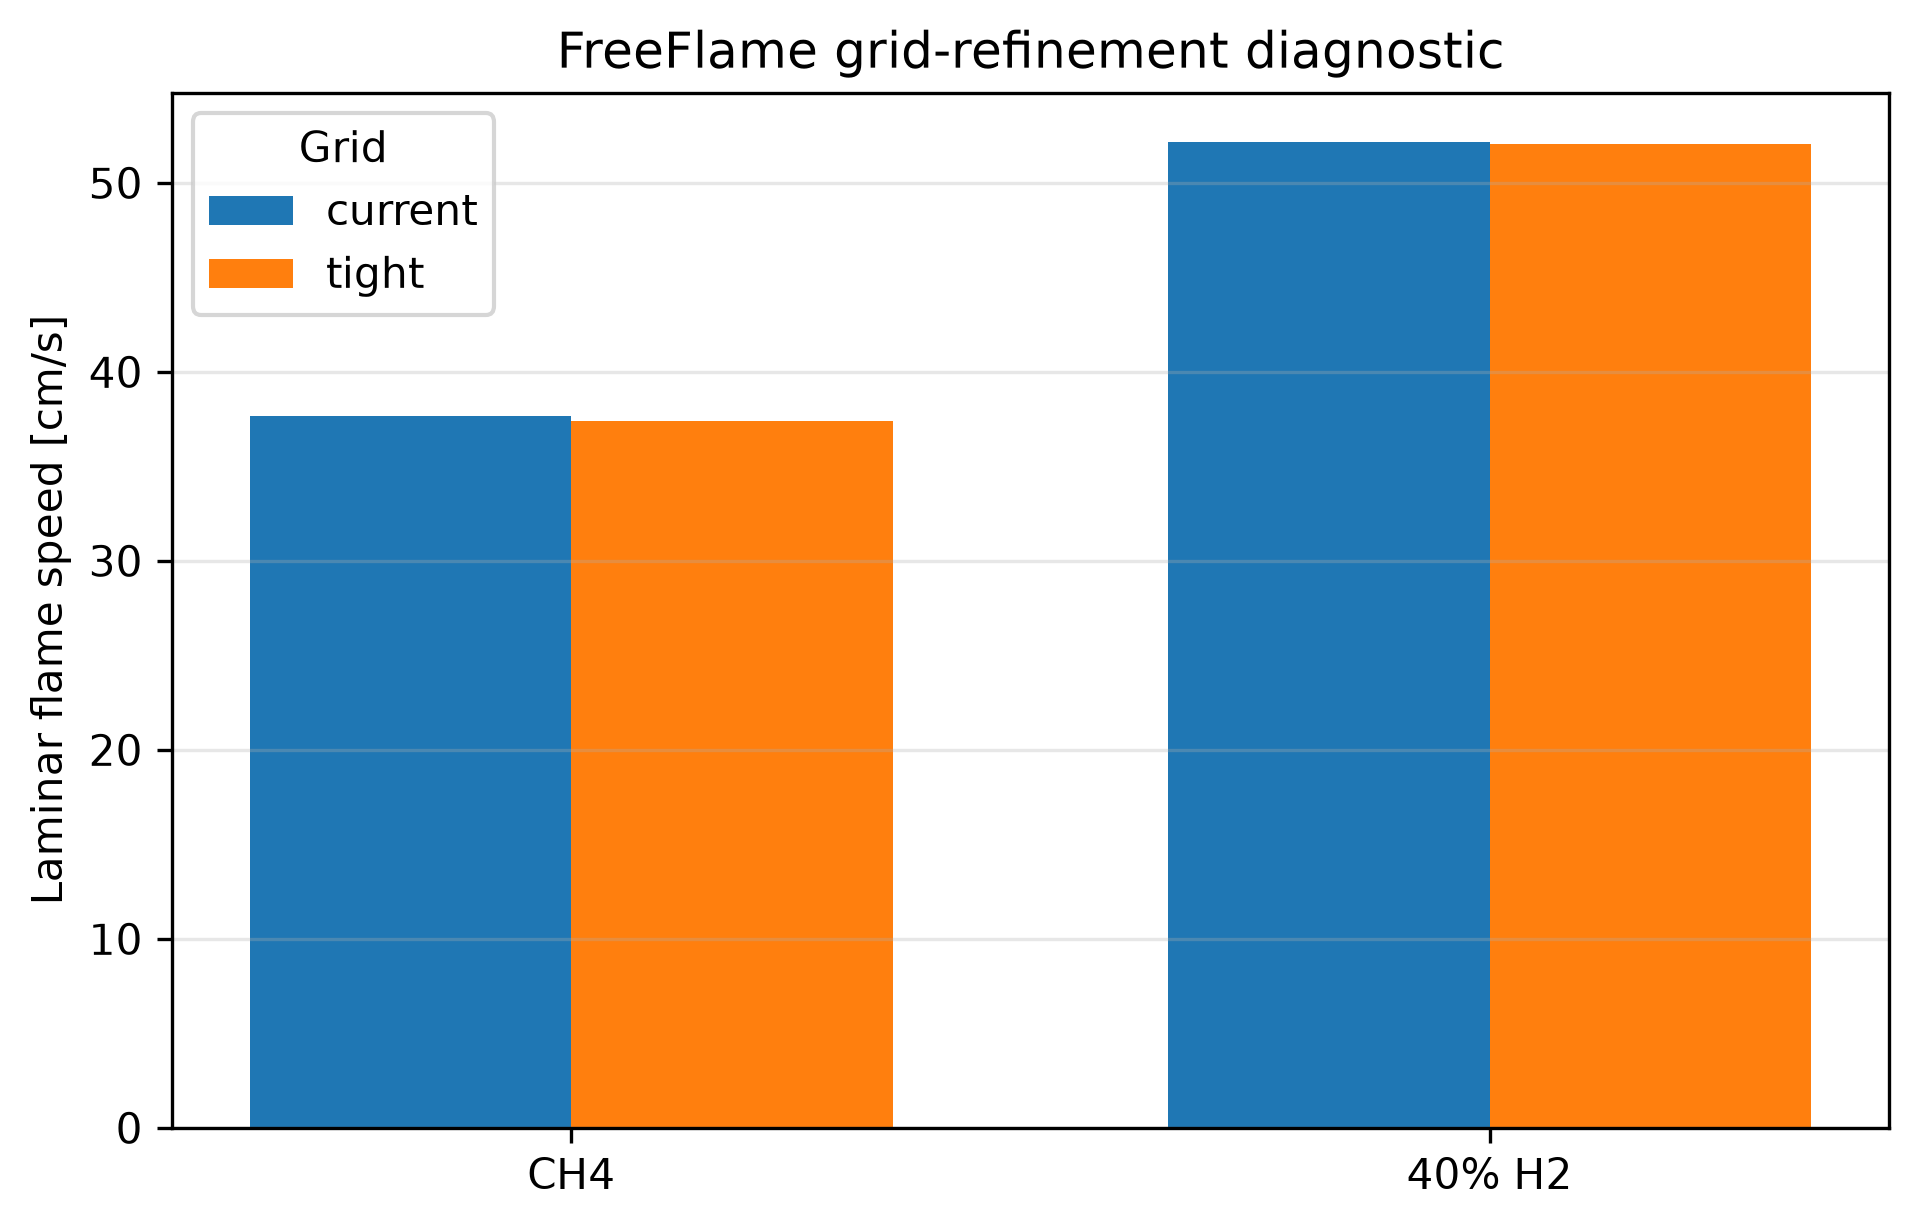
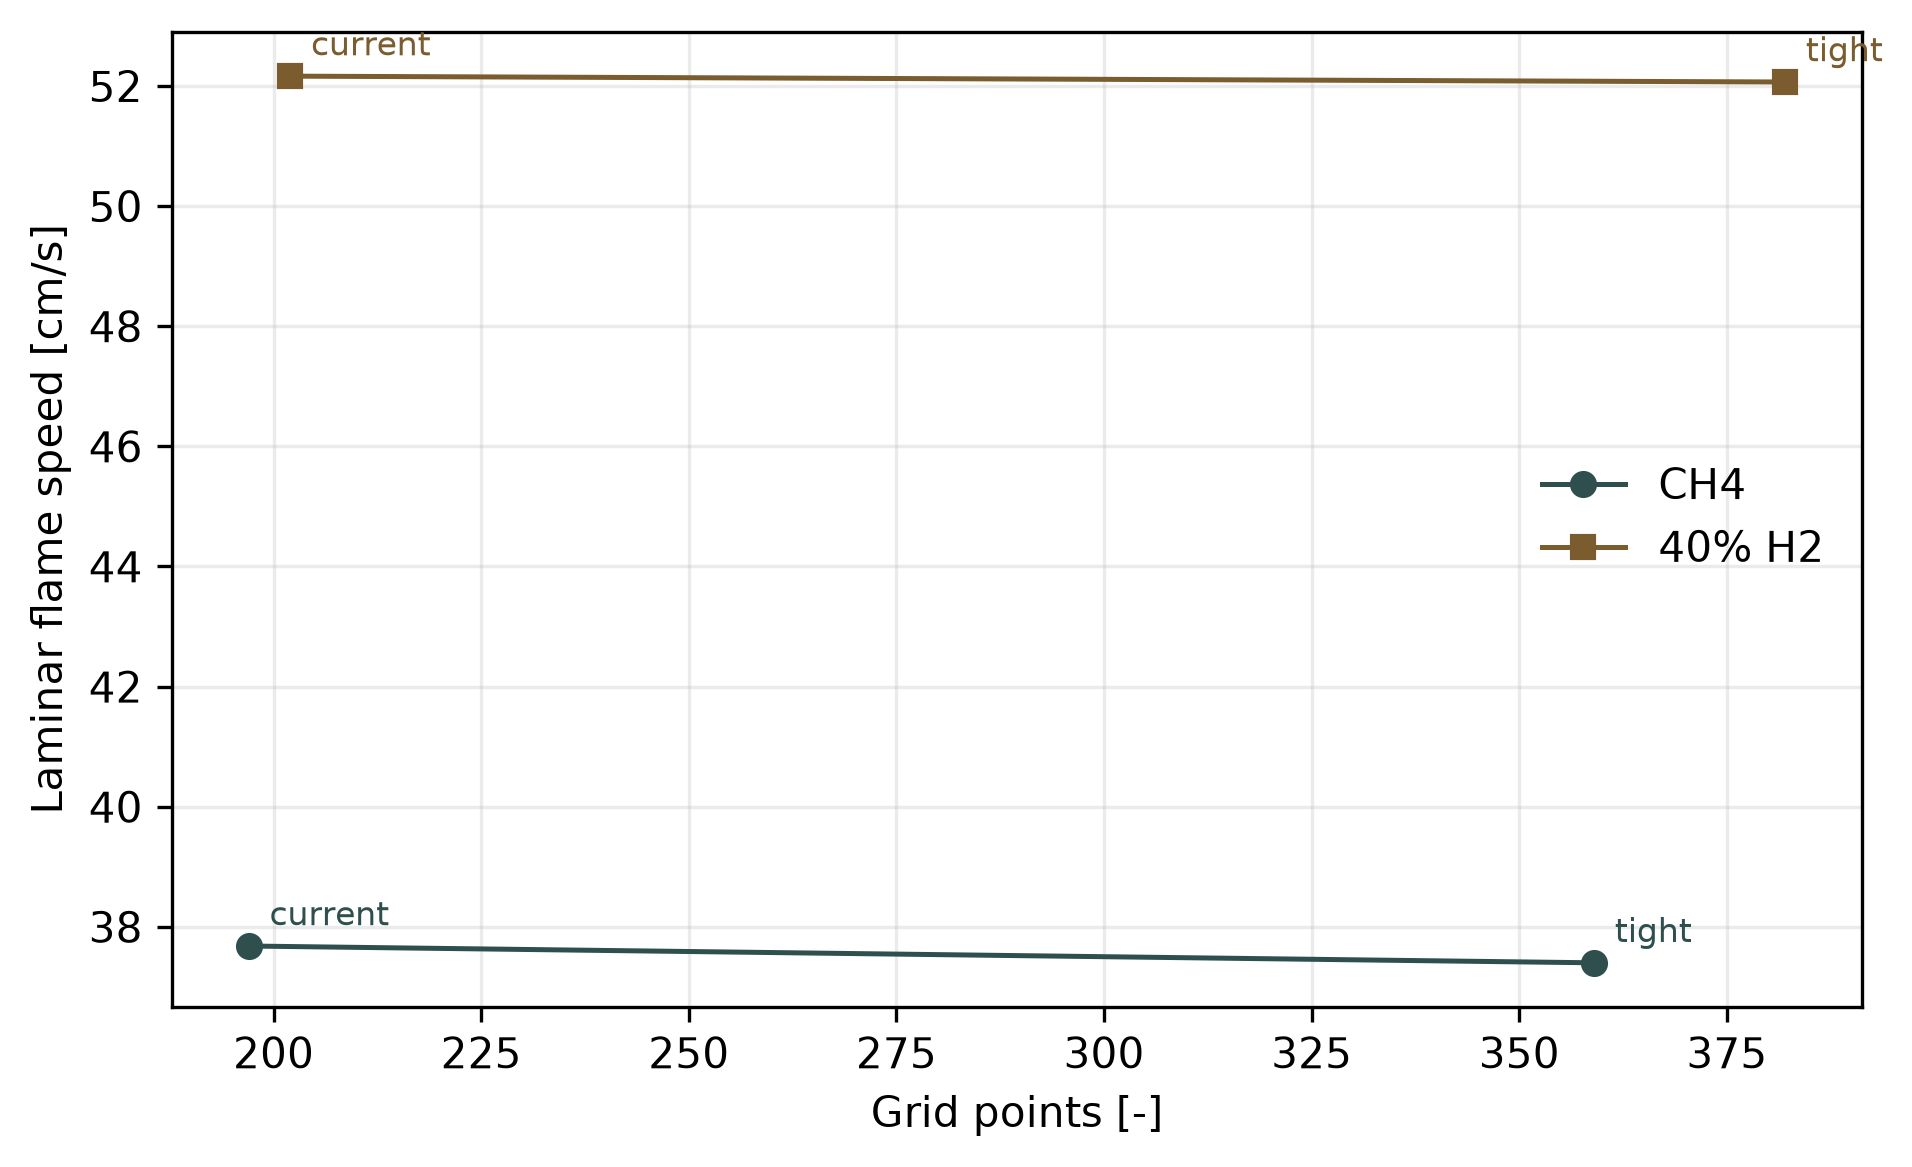
Improve report structure and convergence visualization

diff --git a/report/report.tex b/report/report.tex
@@ -18,11 +18,13 @@
 \usepackage{graphicx}
 \usepackage{subcaption}
 \usepackage{booktabs}
+\usepackage{placeins}
 \graphicspath{{assets/}{../results/figures/}{../results/diagnostics/}}
 
 % --- References ------------------------------------------------------------
 \usepackage[numbers,sort&compress]{natbib}
 \usepackage{hyperref}
+\renewcommand{\refname}{Bibliography}
 
 \sisetup{detect-all}
 \DeclareSIUnit{\atmosphere}{atm}
@@ -79,6 +81,33 @@ extinguished and hot stable steady-state solutions on the tested
 residence-time grid.
 \end{abstract}
 
+\clearpage
+\tableofcontents
+\clearpage
+
+\section*{Nomenclature}
+\addcontentsline{toc}{section}{Nomenclature}
+\begin{center}
+  \begin{tabular}{ll}
+    \toprule
+    Symbol & Meaning \\
+    \midrule
+    $\phi$ & equivalence ratio \\
+    $\tau_\mathrm{ign}$ & ignition delay \\
+    $\tau_\mathrm{res}$ & residence time \\
+    $S_L$ & laminar flame speed \\
+    $T_\mathrm{ad}$ & adiabatic flame temperature \\
+    $X_i$ & mole fraction of species $i$ \\
+    $Y_i$ & mass fraction of species $i$ \\
+    $p$ & pressure \\
+    $T_0$ & initial temperature \\
+    $\dot{m}$ & mass-flow rate \\
+    \bottomrule
+  \end{tabular}
+\end{center}
+
+\clearpage
+
 % ===========================================================================
 \section{Introduction}
 Hydrogen is widely studied as a clean fuel for gas-fired combustors and
@@ -104,8 +133,39 @@ model, how the molar hydrogen fraction in a \ce{CH4}/\ce{H2} fuel blend affects:
 and equivalence ratio; (iii) the laminar flame speed; and (iv) the behaviour
 of an ideal perfectly stirred combustor on a prescribed residence-time grid.
 
+\clearpage
+
 % ===========================================================================
 \section{Methodology}
+
+\subsection{Project workflow}
+The calculations are organised around a common definition of fuel composition,
+oxidizer composition and operating-condition grids. Table~\ref{tab:workflow} summarises the computational workflow; it is a
+project organisation diagram rather than a statement that all models are
+physically coupled in sequence.
+
+\begin{table}[htbp]
+  \centering
+  \caption{Computational workflow used in the project.}
+  \label{tab:workflow}
+  \begin{tabular}{c}
+    \toprule
+    Configuration and fuel definition \\
+    $\downarrow$ \\
+    Equilibrium analysis \\
+    $\downarrow$ \\
+    Ignition-delay analyses \\
+    $\downarrow$ \\
+    PSR residence-time analysis \\
+    $\downarrow$ \\
+    FreeFlame analysis \\
+    $\downarrow$ \\
+    CSV outputs and figures \\
+    $\downarrow$ \\
+    Report \\
+    \bottomrule
+  \end{tabular}
+\end{table}
 
 \subsection{Chemical mechanism}
 All simulations were performed with Cantera \citep{cantera} using the
@@ -226,6 +286,9 @@ is used in the discussion.
   }
 \end{table}
 
+\FloatBarrier
+\clearpage
+
 % ===========================================================================
 \section{Results and discussion}
 
@@ -313,6 +376,16 @@ residence time, turbulent mixing, heat loss, or exhaust quenching.
   \label{fig:eq-species}
 \end{figure}
 
+\FloatBarrier
+
+\subsection{Nitrogen oxide formation}
+The equilibrium and PSR results report \ce{NO} mole fractions from the
+GRI-Mech~3.0 chemistry. Established nitrogen-chemistry pathways in combustion
+are reviewed by \citet{millerbowman1989}. The present study does not perform
+reaction-path, rate-of-production or sensitivity analysis, so it reports only
+the overall \ce{NO} trends predicted by the selected mechanism. These values
+are not certified engine-emission indices.
+
 \subsection{Autoignition delay}
 The ignition-delay results show a strong temperature dependence
 (Figure~\ref{fig:ign}). At $\phi=1.0$ and $p=\SI{10}{\atmosphere}$,
@@ -391,6 +464,8 @@ analysis.
   \label{fig:ign-phi}
 \end{figure}
 
+\FloatBarrier
+
 \subsection{Constant-volume versus constant-pressure reactors}
 The reactor-model comparison isolates the effect of the constant-volume versus
 constant-pressure idealisation for the same mixtures and initial temperatures.
@@ -419,6 +494,8 @@ combustor-oriented idealisation, but it is not a complete gas-turbine model.
   \label{fig:cvcp}
 \end{figure}
 
+\FloatBarrier
+
 \subsection{Laminar flame speed}
 \label{sec:flamespeed}
 The computed laminar flame speed of stoichiometric methane--air at reference
@@ -441,6 +518,8 @@ stoichiometric flame speed to \SI{52.16}{\centi\meter\per\second} at
   \caption{Laminar flame speed of hydrogen-enriched methane--air flames.}
   \label{fig:sl}
 \end{figure}
+
+\FloatBarrier
 
 \subsection{Grid-refinement check}
 The final flame-speed model uses multicomponent transport with Soret diffusion
@@ -482,6 +561,8 @@ of the reported flame speeds to further grid refinement.
            representative cases, not a validation against measurements.}
   \label{fig:grid-check}
 \end{figure}
+
+\FloatBarrier
 
 \subsection{Perfectly stirred reactor stability transition}
 For each tested fuel blend and equivalence ratio, the PSR calculations provide
@@ -547,16 +628,15 @@ at $\phi=1.0$, all three tested fuel blends share the same
   \label{fig:psr-conversion}
 \end{figure}
 
-\subsection{Nitrogen oxide formation}
-The equilibrium and PSR results report \ce{NO} mole fractions from the
-GRI-Mech~3.0 chemistry. Established nitrogen-chemistry pathways in combustion
-are reviewed by \citet{millerbowman1989}. The present study does not perform
-reaction-path, rate-of-production or sensitivity analysis, so it reports only
-the overall \ce{NO} trends predicted by the selected mechanism. These values
-are not certified engine-emission indices.
+\FloatBarrier
+
+\FloatBarrier
+\clearpage
 
 % ===========================================================================
-\section{Model limitations}
+\section{Model limitations and conclusions}
+
+\subsection{Model limitations}
 \label{sec:limitations}
 GRI-Mech~3.0 was optimised and validated for natural-gas (methane-dominated)
 combustion \citep{grimech30}. For the hydrogen fractions considered here
@@ -571,8 +651,7 @@ turbulence, geometry, recirculation or wall heat loss. The equilibrium
 calculations also assume infinite-time chemical equilibrium and therefore
 cannot represent finite-rate effects in the nozzle/exhaust.
 
-% ===========================================================================
-\section{Conclusions}
+\subsection{Conclusions}
 \begin{enumerate}
   \item At $\phi=1.0$, \SI{300}{\kelvin} and \SI{1}{\atmosphere}, increasing
   the fuel hydrogen fraction from \SI{0}{\percent} to \SI{40}{\percent}
@@ -600,7 +679,11 @@ cannot represent finite-rate effects in the nozzle/exhaust.
   interpretation.
 \end{enumerate}
 
+\clearpage
+
 % ===========================================================================
+\phantomsection
+\addcontentsline{toc}{section}{Bibliography}
 \bibliographystyle{unsrtnat}
 \bibliography{references}
 

diff --git a/scripts/flame_speed_grid_convergence.py b/scripts/flame_speed_grid_convergence.py
@@ -131,40 +131,48 @@ def add_tight_reference_difference(dataframe: pd.DataFrame) -> pd.DataFrame:
 
 
 def save_plot(dataframe: pd.DataFrame) -> None:
-    """Save a compact diagnostic comparison plot."""
+    """Save a compact diagnostic grid-convergence plot."""
     plot_data = dataframe.loc[
         dataframe["status"] == "converged"
     ].copy()
 
-    figure, axis = plt.subplots(figsize=(6.5, 4.2))
-    x_positions = range(len(CASES))
-    width = 0.35
+    figure, axis = plt.subplots(figsize=(6.5, 4.0))
+    colors = {"CH4": "#2f4f4f", "40% H2": "#7a5c2e"}
+    markers = {"CH4": "o", "40% H2": "s"}
 
-    for offset, grid in [(-width / 2, "current"), (width / 2, "tight")]:
-        values = []
-        for case in CASES:
-            row = plot_data.loc[
-                (plot_data["case"] == case["case"])
-                & (plot_data["grid"] == grid)
-            ]
-            values.append(
-                float(row.iloc[0]["laminar_flame_speed_cm_s"])
-                if not row.empty
-                else math.nan
-            )
-        axis.bar(
-            [position + offset for position in x_positions],
-            values,
-            width=width,
-            label=grid,
+    for case in CASES:
+        case_name = str(case["case"])
+        case_data = (
+            plot_data.loc[plot_data["case"] == case_name]
+            .sort_values("grid_points")
+        )
+        if case_data.empty:
+            continue
+
+        axis.plot(
+            case_data["grid_points"],
+            case_data["laminar_flame_speed_cm_s"],
+            marker=markers[case_name],
+            linewidth=1.2,
+            markersize=5.5,
+            color=colors[case_name],
+            label=case_name,
         )
 
-    axis.set_xticks(list(x_positions))
-    axis.set_xticklabels([str(case["case"]) for case in CASES])
+        for _, row in case_data.iterrows():
+            axis.annotate(
+                str(row["grid"]),
+                (row["grid_points"], row["laminar_flame_speed_cm_s"]),
+                textcoords="offset points",
+                xytext=(5, 5),
+                fontsize=8,
+                color=colors[case_name],
+            )
+
+    axis.set_xlabel("Grid points [-]")
     axis.set_ylabel("Laminar flame speed [cm/s]")
-    axis.set_title("FreeFlame grid-refinement diagnostic")
-    axis.grid(True, axis="y", alpha=0.3)
-    axis.legend(title="Grid")
+    axis.grid(True, alpha=0.25)
+    axis.legend(frameon=False)
     figure.tight_layout()
     figure.savefig(OUTPUT_FIGURE, dpi=300, bbox_inches="tight")
     plt.close(figure)